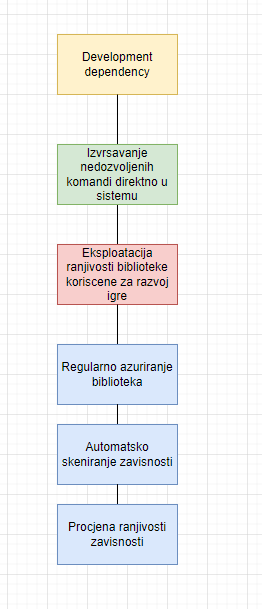
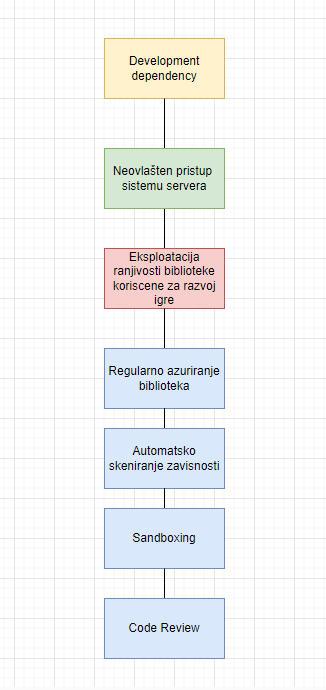
Azurirana slika i readme

Changed region(s): [[0.2137, 0.0312, 0.7023, 0.9672]]

diff --git a/literatura/Naucni clanci/Online igre/Analiza pretnji kroz analizu biblioteka za razvoj/README.md b/literatura/Naucni clanci/Online igre/Analiza pretnji kroz analizu biblioteka za razvoj/README.md
@@ -6,7 +6,7 @@ S obzirom da je većina biblioteka održavana od strane pojedinačnih developera
 Pretnje koje se mogu dogoditi u ovakvim sistemima su razne, ali ćemo se fokusirati na specifičnu pretnju i to neovlašten pristup sistemu servera. Motiv napadača je najčešće lična upotreba resursa koje je prethodno osvojio(skidanje torent sadržaja, server može postati učesnik ddos napada) ili narušavanje sposobnosti samog sistema. 
 
 <p align="center">
-    <img src="https://github.com/JanosevicRa177/Game-security-research/blob/main/literatura/Naucni%20clanci/Online%20igre/Analiza%20pretnji%20kroz%20analizu%biblioteka%20za%20razvoj/Slike/ModelPretnji.png"/>
+    <img src="https://github.com/JanosevicRa177/Game-security-research/blob/main/literatura/Naucni%20clanci/Online%20igre/Analiza%20pretnji%20kroz%20analizu%20biblioteka%20za%20razvoj/Slike/ModelPretnji.png"/>
 </p>
 <p align="center">
     Dijagram pretnji
